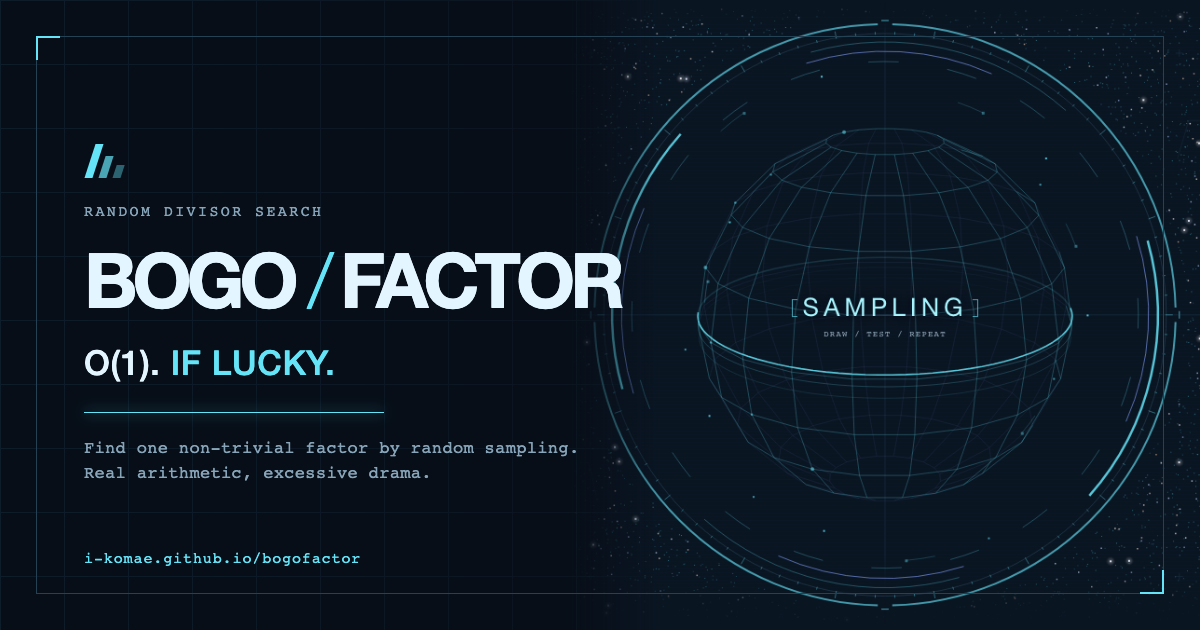
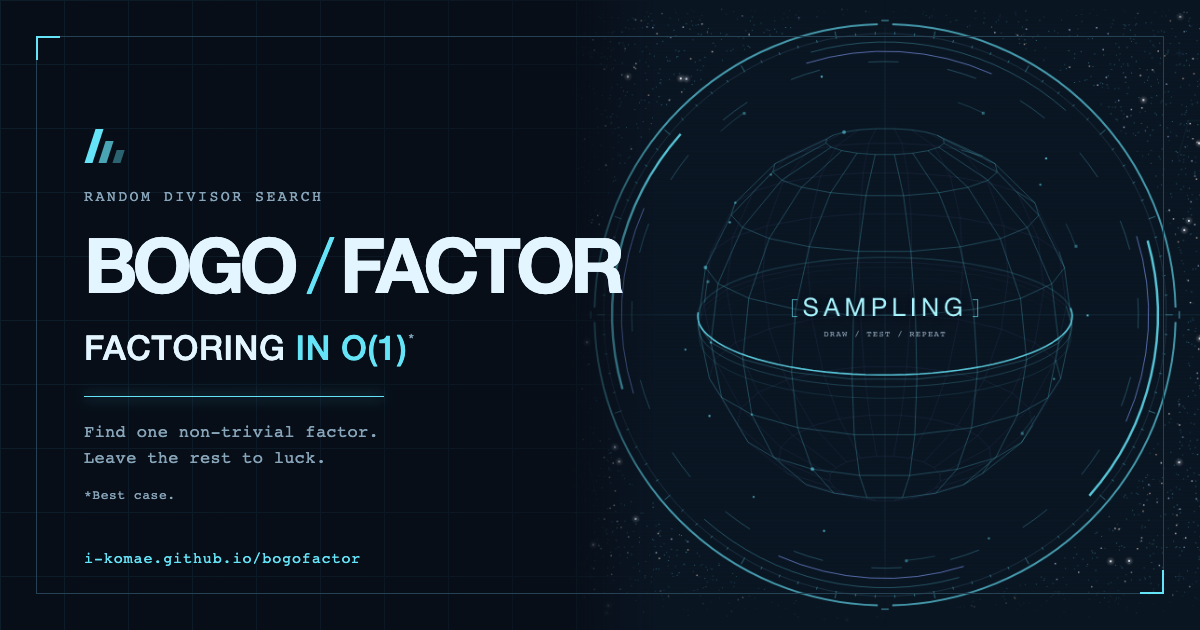
Unify the O(1) wording and remove IF LUCKY

Changed region(s): [[0.0617, 0.2111, 0.5242, 0.6032], [0.0617, 0.6635, 0.4933, 0.8143]]

diff --git a/index.html b/index.html
@@ -6,27 +6,27 @@
     <meta name="color-scheme" content="light dark"/>
     <meta name="theme-color" content="#eaf1f4" media="(prefers-color-scheme: light)"/>
     <meta name="theme-color" content="#070e18" media="(prefers-color-scheme: dark)"/>
-    <meta name="description" content="Find one non-trivial factor by random sampling. Real arithmetic, excessive drama."/>
-    <title>BOGO / FACTOR — Entropy Terminal</title>
+    <meta name="description" content="Find one non-trivial factor. Leave the rest to luck."/>
+    <title>BOGO / FACTOR — FACTORING IN O(1)</title>
     <link rel="canonical" href="https://i-komae.github.io/bogofactor/"/>
     <link rel="icon" href="assets/images/favicon.ico" sizes="16x16 32x32 48x48"/>
     <link rel="icon" href="assets/images/favicon.svg" type="image/svg+xml" sizes="any"/>
     <link rel="apple-touch-icon" href="assets/images/apple-touch-icon.png" sizes="180x180"/>
     <meta property="og:type" content="website"/>
     <meta property="og:site_name" content="BOGO / FACTOR"/>
-    <meta property="og:title" content="BOGO / FACTOR — O(1). IF LUCKY."/>
+    <meta property="og:title" content="BOGO / FACTOR — FACTORING IN O(1)"/>
     <meta property="og:description" content="Find one non-trivial factor. Leave the rest to luck."/>
     <meta property="og:url" content="https://i-komae.github.io/bogofactor/"/>
     <meta property="og:image" content="https://i-komae.github.io/bogofactor/assets/images/og-image.png"/>
     <meta property="og:image:type" content="image/png"/>
     <meta property="og:image:width" content="1200"/>
     <meta property="og:image:height" content="630"/>
-    <meta property="og:image:alt" content="BOGO / FACTOR — O(1). IF LUCKY. The entropy core during a real search, with sampled divisors as stars."/>
+    <meta property="og:image:alt" content="BOGO / FACTOR — FACTORING IN O(1). The entropy core during a real search, with sampled divisors as stars."/>
     <meta name="twitter:card" content="summary_large_image"/>
-    <meta name="twitter:title" content="BOGO / FACTOR — O(1). IF LUCKY."/>
+    <meta name="twitter:title" content="BOGO / FACTOR — FACTORING IN O(1)"/>
     <meta name="twitter:description" content="Find one non-trivial factor. Leave the rest to luck."/>
     <meta name="twitter:image" content="https://i-komae.github.io/bogofactor/assets/images/og-image.png"/>
-    <meta name="twitter:image:alt" content="BOGO / FACTOR — O(1). IF LUCKY. The entropy core during a real search, with sampled divisors as stars."/>
+    <meta name="twitter:image:alt" content="BOGO / FACTOR — FACTORING IN O(1). The entropy core during a real search, with sampled divisors as stars."/>
     <link rel="stylesheet" href="css/terminal.css"/>
     <link rel="stylesheet" href="css/share.css"/>
     <link rel="stylesheet" href="css/interface.css"/>
@@ -42,7 +42,8 @@
         FACTOR
       </div>
       <div class="boot-line"></div>
-      <span class="boot-motto">O(1). IF LUCKY.</span>
+      <span class="boot-motto">FACTORING IN O(1)*</span>
+      <span class="boot-note">*BEST CASE</span>
     </div>
     <main class="app">
       <div class="chrome">
@@ -51,9 +52,9 @@
         <h1>BOGO<span class="slash">/</span>FACTOR<span class="title-cursor" aria-hidden="true">_</span></h1>
         <div class="brand-caption">
           <p class="eyebrow">RANDOM DIVISOR SEARCH</p>
-          <p class="brand-motto">LEAVE IT TO LUCK.</p>
+          <p class="brand-motto">LEAVE THE REST TO LUCK.</p>
         </div>
-        <div class="intro-meta"><span class="local-light" aria-hidden="true"></span>FACTORING IN O(1)</div>
+        <div class="intro-meta"><span class="local-light" aria-hidden="true"></span><span class="claim"><span>FACTORING IN O(1)*</span><small>*BEST CASE</small></span></div>
         <div class="toolbar" aria-label="Display controls">
           <button type="button" class="tool" id="fx-toggle" aria-pressed="true" title="Turn decorative motion off"><span class="tool-light" aria-hidden="true"></span><span id="fx-label">FX / FULL</span></button>
           <button type="button" class="tool" id="sound-toggle" aria-pressed="false" title="Play Cyber 08 — MaouDamashii">BGM / OFF</button>

diff --git a/css/interface.css b/css/interface.css
@@ -108,6 +108,9 @@ html, body { height: 100%; overflow: hidden; }
 .brand-caption .eyebrow { margin: 0; font-size: 9px; }
 .brand-motto { margin: 1px 0 0; font-size: 10px; color: var(--muted); letter-spacing: .09em; }
 .site-header .intro-meta { grid-column: 5; position: static; display: flex; align-items: center; gap: 8px; margin: 0; padding: 0; font-size: 10px; white-space: nowrap; }
+/* The claim and its footnote, two lines like the brand caption. */
+.intro-meta .claim { display: flex; flex-direction: column; gap: 1px; line-height: 1.3; }
+.intro-meta .claim small { font-size: 8px; letter-spacing: .12em; color: var(--muted); }
 .site-header .local-light { position: static; display: inline-block; margin: 0; }
 .site-header .toolbar { grid-column: 6; }
 .core .panel-heading { gap: 12px; }

diff --git a/css/terminal.css b/css/terminal.css
@@ -1384,6 +1384,14 @@ dialog summary {
   margin-top: 17px;
 }
 
+.boot-note {
+  font: 8px var(--mono);
+  letter-spacing: .3em;
+  color: var(--muted);
+  opacity: .75;
+  margin-top: 8px;
+}
+
 .boot-line {
   width: 220px;
   height: 1px;
